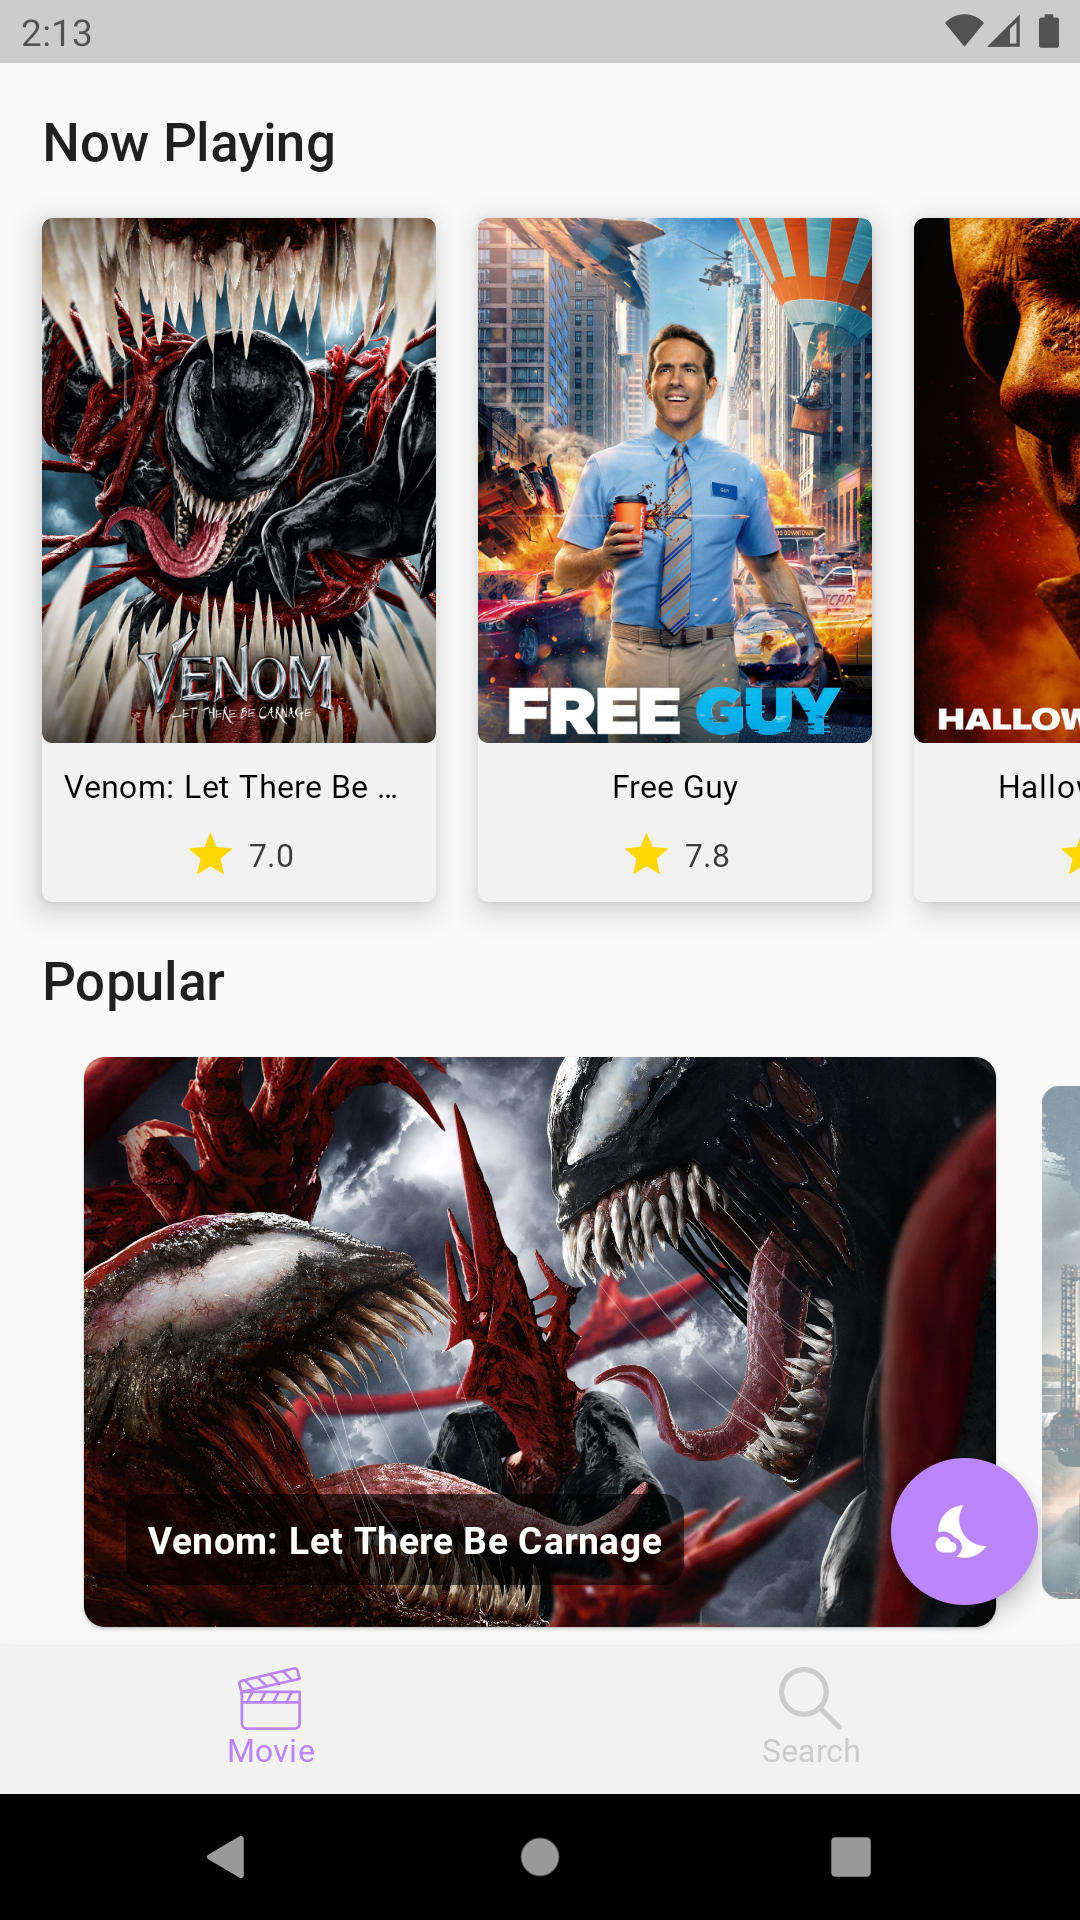
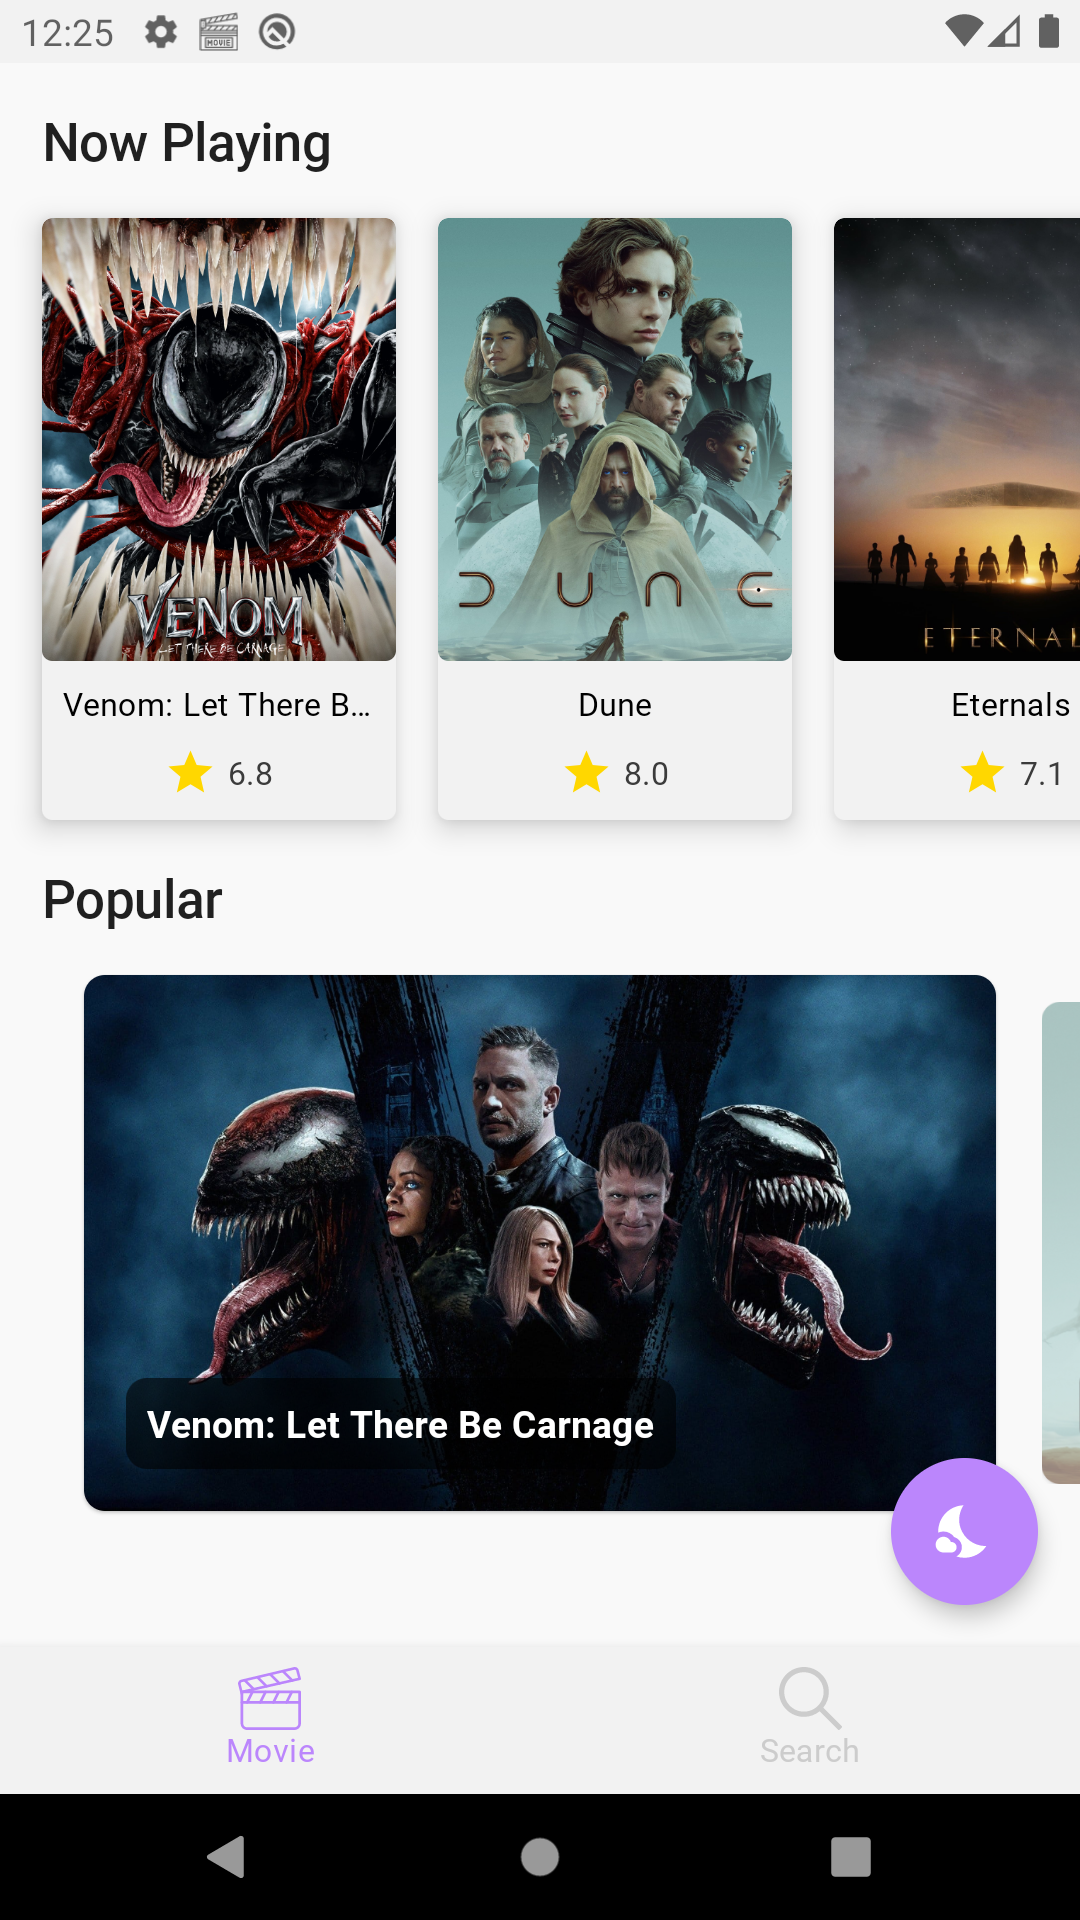
Height and width adjustment in MovieScreen Add new screenshots Bump coil library to 1.4.0

diff --git a/app/src/main/java/com/caner/composemoviedb/view/movie/MovieScreen.kt b/app/src/main/java/com/caner/composemoviedb/view/movie/MovieScreen.kt
@@ -126,7 +126,7 @@ fun MovieItem(item: Movie?, itemClicked: (Int) -> Unit) {
         elevation = 8.dp,
         shape = MaterialTheme.shapes.small,
         contentColor = Color.LightGray,
-        modifier = Modifier.width(150.dp)
+        modifier = Modifier.width(135.dp)
     ) {
         Column(horizontalAlignment = CenterHorizontally,
             modifier = Modifier
@@ -137,8 +137,8 @@ fun MovieItem(item: Movie?, itemClicked: (Int) -> Unit) {
             MoviePoster(
                 item?.poster?.original, modifier = Modifier
                     .fillMaxWidth()
+                    .aspectRatio(0.8f)
                     .clip(MaterialTheme.shapes.small)
-                    .height(200.dp)
             )
             Text(
                 text = item?.title ?: "",
@@ -208,7 +208,7 @@ fun PopularMoviesHorizontalPager(movies: List<Movie>) {
                     )
                 }
                 .fillMaxWidth()
-                .aspectRatio(1.6f)
+                .aspectRatio(1.7f)
         ) {
             Box(
                 modifier = Modifier
